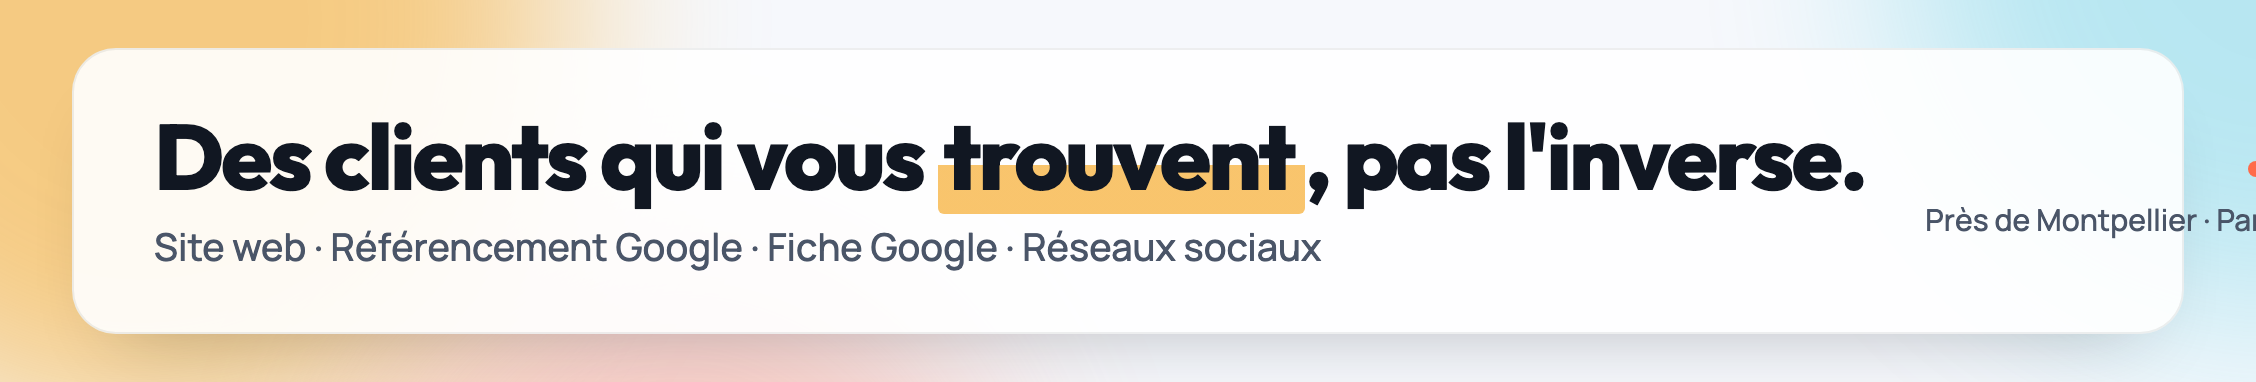
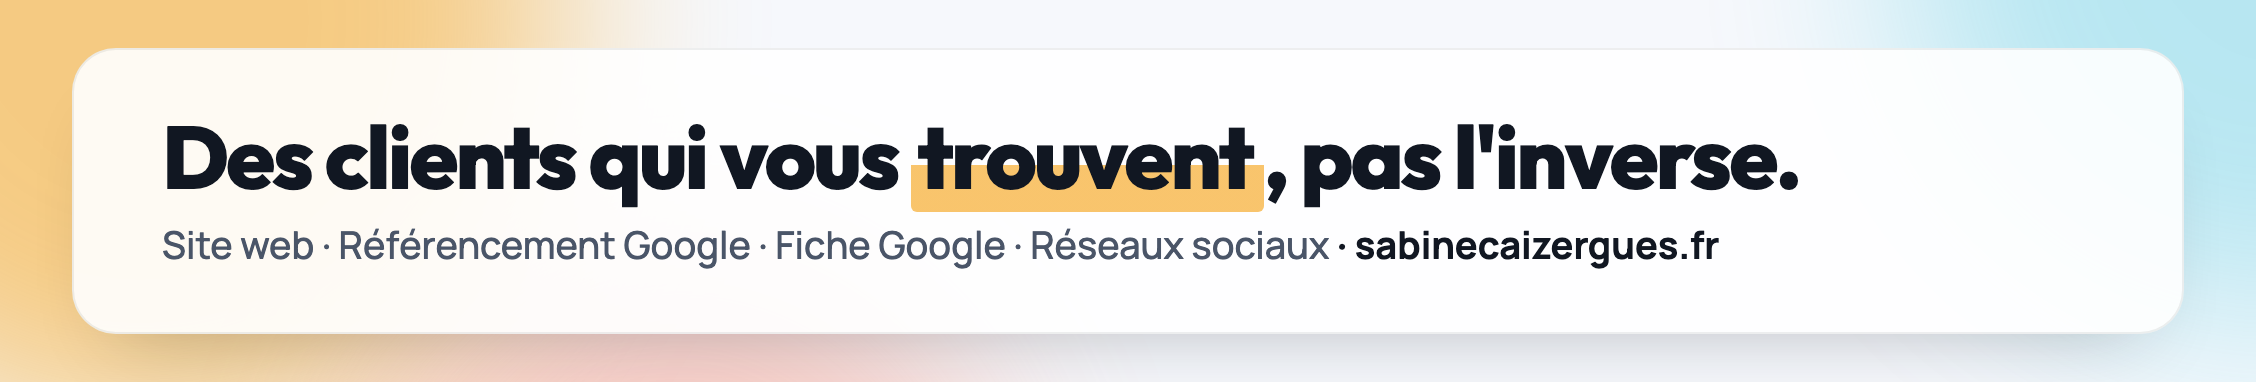
deploy from workspace

diff --git a/site-vitrine/index.html b/site-vitrine/index.html
@@ -28,7 +28,7 @@
 <link rel="icon" type="image/png" sizes="48x48" href="../favicon-48.png">
 <link rel="icon" type="image/png" sizes="192x192" href="../favicon-192.png">
 <link rel="apple-touch-icon" href="../apple-touch-icon.png">
-<script type="application/ld+json">{"@context":"https://schema.org","@graph":[{"@type":"Service","@id":"https://sabinecaizergues.fr/site-vitrine/#service","name":"Création de site vitrine professionnel","serviceType":"Création de site web","description":"Site vitrine d'une page, lisible sur téléphone, en ligne en 7 jours, avec un espace pour le modifier soi-même. Nom de domaine offert la première année, hébergement et sauvegardes inclus dans l'abonnement.","provider":{"@id":"https://sabinecaizergues.fr/#business"},"areaServed":{"@type":"Country","name":"France"},"url":"https://sabinecaizergues.fr/site-vitrine/","offers":{"@type":"Offer","price":"490","priceCurrency":"EUR","url":"https://sabinecaizergues.fr/site-vitrine/","availability":"https://schema.org/LimitedAvailability","priceValidUntil":"2026-12-31","description":"Tarif de lancement réservé aux 10 premiers clients, au lieu de 1 490 €. Puis abonnement de 59 à 299 € par mois selon le niveau d'accompagnement (149 € recommandé : fiche Google, réseaux sociaux et suivi du référencement). Option shooting photo 52 photos : 390 €."}},{"@type":"FAQPage","mainEntity":[{"@type":"Question","name":"Pourquoi si peu cher ? Il y a un piège ?","acceptedAnswer":{"@type":"Answer","text":"Aucun piège. Je relance mon activité et j'ai besoin de références récentes. Je fais ce tarif pour dix clients, puis je reviens à mes prix normaux. Vous n'achetez pas moins de travail, vous arrivez au bon moment."}},{"@type":"Question","name":"Je ne suis pas à Montpellier, c'est un problème ?","acceptedAnswer":{"@type":"Answer","text":"Aucun. Tout se fait très bien à distance : un appel, une visio avec partage d'écran, et vos textes et photos par email. Mes clients sont à Montpellier, à Avignon et ailleurs en France. Aucun déplacement n'est nécessaire."}},{"@type":"Question","name":"Je n'ai pas de photos, c'est bloquant ?","acceptedAnswer":{"@type":"Answer","text":"Non. On fait avec ce que vous avez, même des photos prises au téléphone, et je vous donne une liste de cinq photos simples à prendre. Et si vous voulez faire les choses bien : un shooting photo chez vous, 52 photos retouchées, soit une par semaine pour vos réseaux pendant un an, pour 390 €. Près de Montpellier je viens moi-même ; ailleurs, je fais venir un photographe partenaire."}},{"@type":"Question","name":"Et si je veux modifier quelque chose plus tard ?","acceptedAnswer":{"@type":"Answer","text":"Vous le faites vous-même en trois clics depuis votre espace : textes, photos, horaires, tarifs. Et si vous n'avez pas le temps, une modification par mois est comprise dans l'abonnement, je m'en occupe."}},{"@type":"Question","name":"L'abonnement, c'est un piège pour me retenir ?","acceptedAnswer":{"@type":"Answer","text":"Il couvre l'hébergement, le nom de domaine, la sécurité et les sauvegardes, que vous paieriez de toute façon ailleurs. L'engagement est de douze mois, c'est la contrepartie du prix de création cassé. Et le site vous appartient : si vous partez, vous partez avec."}},{"@type":"Question","name":"J'ai vu des offres à 10 € par mois, pourquoi 59 ?","acceptedAnswer":{"@type":"Answer","text":"Elles existent et elles sont honnêtes : c'est de l'hébergement, sans personne derrière. Si vous savez tout faire seul et que vous n'avez besoin de personne, prenez-les, je vous le dis franchement. Moi je vends autre chose : quelqu'un qui décroche, qui connaît votre métier, et qui fait la modification à votre place."}},{"@type":"Question","name":"Combien de temps ça me prend, à moi ?","acceptedAnswer":{"@type":"Answer","text":"Un appel de quinze minutes, puis l'envoi de vos photos et de vos textes. Une heure de votre temps en tout, réparties sur la semaine."}}]},{"@type":"BreadcrumbList","itemListElement":[{"@type":"ListItem","position":1,"name":"Accueil","item":"https://sabinecaizergues.fr/"},{"@type":"ListItem","position":2,"name":"Site vitrine en 7 jours","item":"https://sabinecaizergues.fr/site-vitrine/"}]},{"@type":"ProfessionalService","@id":"https://sabinecaizergues.fr/#business","name":"Sabine Caizergues","alternateName":"ULTRAFACILE","url":"https://sabinecaizergues.fr/","telephone":"+33646561787","email":"sabine@ultrafacile.fr","image":"https://sabinecaizergues.fr/assets/og-accueil.jpg","logo":"https://sabinecaizergues.fr/favicon-512.png","priceRange":"€€","description":"Création de sites web, référencement naturel (SEO), fiche Google Business, réseaux sociaux et publicité en ligne pour les indépendants, artisans, commerçants et petites entreprises. Près de Montpellier, partout en France à distance.","areaServed":[{"@type":"Country","name":"France"},{"@type":"City","name":"Montpellier"},{"@type":"AdministrativeArea","name":"Occitanie"}],"address":{"@type":"PostalAddress","addressRegion":"Occitanie","addressCountry":"FR"},"founder":{"@id":"https://sabinecaizergues.fr/#person"},"sameAs":["https://www.linkedin.com/in/sabinecaizergues/"],"knowsAbout":["Création de sites web","Référencement naturel (SEO)","Google Business Profile","Réseaux sociaux","Google Ads","Meta Ads","Automatisation"],"hasOfferCatalog":{"@type":"OfferCatalog","name":"Services","itemListElement":[{"@type":"Offer","url":"https://sabinecaizergues.fr/site-vitrine/","price":"490","priceCurrency":"EUR","itemOffered":{"@type":"Service","name":"Création de site vitrine","description":"Site vitrine professionnel d'une page, en ligne en 7 jours, modifiable par le client."}},{"@type":"Offer","itemOffered":{"@type":"Service","name":"Site complet ou boutique en ligne"}},{"@type":"Offer","itemOffered":{"@type":"Service","name":"Référencement naturel (SEO)"}},{"@type":"Offer","itemOffered":{"@type":"Service","name":"Gestion des réseaux sociaux"}},{"@type":"Offer","itemOffered":{"@type":"Service","name":"Fiche Google Business"}},{"@type":"Offer","itemOffered":{"@type":"Service","name":"Publicité Google Ads et Meta Ads"}},{"@type":"Offer","itemOffered":{"@type":"Service","name":"Automatisation et développement sur mesure"}}]}},{"@type":"Person","@id":"https://sabinecaizergues.fr/#person","name":"Sabine Caizergues","jobTitle":"Partenaire digitale : création de sites web, référencement naturel et réseaux sociaux","url":"https://sabinecaizergues.fr/","image":"https://sabinecaizergues.fr/assets/sabine.jpg","email":"sabine@ultrafacile.fr","telephone":"+33646561787","sameAs":["https://www.linkedin.com/in/sabinecaizergues/"],"worksFor":{"@id":"https://sabinecaizergues.fr/#business"}}]}</script>
+<script type="application/ld+json">{"@context":"https://schema.org","@graph":[{"@type":"Service","@id":"https://sabinecaizergues.fr/site-vitrine/#service","name":"Création de site vitrine professionnel","serviceType":"Création de site web","description":"Site vitrine d'une page, lisible sur téléphone, en ligne en 7 jours, avec un espace pour le modifier soi-même. Nom de domaine offert la première année, hébergement et sauvegardes inclus dans l'abonnement.","provider":{"@id":"https://sabinecaizergues.fr/#business"},"areaServed":{"@type":"Country","name":"France"},"url":"https://sabinecaizergues.fr/site-vitrine/","offers":{"@type":"Offer","price":"490","priceCurrency":"EUR","url":"https://sabinecaizergues.fr/site-vitrine/","availability":"https://schema.org/LimitedAvailability","priceValidUntil":"2026-12-31","description":"Tarif de lancement réservé aux 10 premiers clients, au lieu de 1 490 €. Puis abonnement de 59 à 299 € par mois selon le niveau d'accompagnement (149 € recommandé : fiche Google, réseaux sociaux et suivi du référencement). Option shooting photo 52 photos : 690 €."}},{"@type":"FAQPage","mainEntity":[{"@type":"Question","name":"Pourquoi si peu cher ? Il y a un piège ?","acceptedAnswer":{"@type":"Answer","text":"Aucun piège. Je relance mon activité et j'ai besoin de références récentes. Je fais ce tarif pour dix clients, puis je reviens à mes prix normaux. Vous n'achetez pas moins de travail, vous arrivez au bon moment."}},{"@type":"Question","name":"Je ne suis pas à Montpellier, c'est un problème ?","acceptedAnswer":{"@type":"Answer","text":"Aucun. Tout se fait très bien à distance : un appel, une visio avec partage d'écran, et vos textes et photos par email. Mes clients sont à Montpellier, à Avignon et ailleurs en France. Aucun déplacement n'est nécessaire."}},{"@type":"Question","name":"Je n'ai pas de photos, c'est bloquant ?","acceptedAnswer":{"@type":"Answer","text":"Non. On fait avec ce que vous avez, même des photos prises au téléphone, et je vous donne une liste de cinq photos simples à prendre. Et si vous voulez faire les choses bien : un shooting photo chez vous, 52 photos retouchées, soit une par semaine pour vos réseaux pendant un an, pour 690 €. Près de Montpellier je viens moi-même ; ailleurs, je fais venir un photographe partenaire."}},{"@type":"Question","name":"Et si je veux modifier quelque chose plus tard ?","acceptedAnswer":{"@type":"Answer","text":"Vous le faites vous-même en trois clics depuis votre espace : textes, photos, horaires, tarifs. Et si vous n'avez pas le temps, une modification par mois est comprise dans l'abonnement, je m'en occupe."}},{"@type":"Question","name":"L'abonnement, c'est un piège pour me retenir ?","acceptedAnswer":{"@type":"Answer","text":"Il couvre l'hébergement, le nom de domaine, la sécurité et les sauvegardes, que vous paieriez de toute façon ailleurs. L'engagement est de douze mois, c'est la contrepartie du prix de création cassé. Et le site vous appartient : si vous partez, vous partez avec."}},{"@type":"Question","name":"J'ai vu des offres à 10 € par mois, pourquoi 59 ?","acceptedAnswer":{"@type":"Answer","text":"Elles existent et elles sont honnêtes : c'est de l'hébergement, sans personne derrière. Si vous savez tout faire seul et que vous n'avez besoin de personne, prenez-les, je vous le dis franchement. Moi je vends autre chose : quelqu'un qui décroche, qui connaît votre métier, et qui fait la modification à votre place."}},{"@type":"Question","name":"Combien de temps ça me prend, à moi ?","acceptedAnswer":{"@type":"Answer","text":"Un appel de quinze minutes, puis l'envoi de vos photos et de vos textes. Une heure de votre temps en tout, réparties sur la semaine."}}]},{"@type":"BreadcrumbList","itemListElement":[{"@type":"ListItem","position":1,"name":"Accueil","item":"https://sabinecaizergues.fr/"},{"@type":"ListItem","position":2,"name":"Site vitrine en 7 jours","item":"https://sabinecaizergues.fr/site-vitrine/"}]},{"@type":"ProfessionalService","@id":"https://sabinecaizergues.fr/#business","name":"Sabine Caizergues","alternateName":"ULTRAFACILE","url":"https://sabinecaizergues.fr/","telephone":"+33646561787","email":"sabine@ultrafacile.fr","image":"https://sabinecaizergues.fr/assets/og-accueil.jpg","logo":"https://sabinecaizergues.fr/favicon-512.png","priceRange":"€€","description":"Création de sites web, référencement naturel (SEO), fiche Google Business, réseaux sociaux et publicité en ligne pour les indépendants, artisans, commerçants et petites entreprises. Près de Montpellier, partout en France à distance.","areaServed":[{"@type":"Country","name":"France"},{"@type":"City","name":"Montpellier"},{"@type":"AdministrativeArea","name":"Occitanie"}],"address":{"@type":"PostalAddress","addressRegion":"Occitanie","addressCountry":"FR"},"founder":{"@id":"https://sabinecaizergues.fr/#person"},"sameAs":["https://www.linkedin.com/in/sabinecaizergues/"],"knowsAbout":["Création de sites web","Référencement naturel (SEO)","Google Business Profile","Réseaux sociaux","Google Ads","Meta Ads","Automatisation"],"hasOfferCatalog":{"@type":"OfferCatalog","name":"Services","itemListElement":[{"@type":"Offer","url":"https://sabinecaizergues.fr/site-vitrine/","price":"490","priceCurrency":"EUR","itemOffered":{"@type":"Service","name":"Création de site vitrine","description":"Site vitrine professionnel d'une page, en ligne en 7 jours, modifiable par le client."}},{"@type":"Offer","itemOffered":{"@type":"Service","name":"Site complet ou boutique en ligne"}},{"@type":"Offer","itemOffered":{"@type":"Service","name":"Référencement naturel (SEO)"}},{"@type":"Offer","itemOffered":{"@type":"Service","name":"Gestion des réseaux sociaux"}},{"@type":"Offer","itemOffered":{"@type":"Service","name":"Fiche Google Business"}},{"@type":"Offer","itemOffered":{"@type":"Service","name":"Publicité Google Ads et Meta Ads"}},{"@type":"Offer","itemOffered":{"@type":"Service","name":"Automatisation et développement sur mesure"}}]}},{"@type":"Person","@id":"https://sabinecaizergues.fr/#person","name":"Sabine Caizergues","jobTitle":"Partenaire digitale : création de sites web, référencement naturel et réseaux sociaux","url":"https://sabinecaizergues.fr/","image":"https://sabinecaizergues.fr/assets/sabine.jpg","email":"sabine@ultrafacile.fr","telephone":"+33646561787","sameAs":["https://www.linkedin.com/in/sabinecaizergues/"],"worksFor":{"@id":"https://sabinecaizergues.fr/#business"}}]}</script>
 <link rel="preconnect" href="https://fonts.googleapis.com"><link rel="preconnect" href="https://fonts.gstatic.com" crossorigin>
 <link href="https://fonts.googleapis.com/css2?family=Outfit:wght@500;700;800&family=Manrope:wght@400;500;700&display=swap" rel="stylesheet">
 <style>
@@ -210,7 +210,7 @@ footer a{color:var(--gris)}
   <p class="sous rev">Le site, c'est le frais d'installation. Ce qui vous rend visible chaque mois, c'est l'abonnement. Aucun frais caché, aucune surprise.</p>
   <div class="pack verre rev pack--once"><div class="t">Une seule fois</div><div class="p">490 €</div>
     <div class="d">La création complète du site, au lieu de 1 490 €.</div>
-    <ul><li>Conception et rédaction</li><li>Mise en ligne sous 7 jours</li><li>Formation de 15 minutes à votre espace</li><li>Nom de domaine offert la 1re année</li></ul><div class="opt">Option : shooting photo chez vous, 52 photos retouchées · 390 €</div></div>
+    <ul><li>Conception et rédaction</li><li>Mise en ligne sous 7 jours</li><li>Formation de 15 minutes à votre espace</li><li>Nom de domaine offert la 1re année</li></ul><div class="opt">Option : shooting photo chez vous, 52 photos retouchées · 690 €</div></div>
   <div class="abo3 rev">
     <div class="pack verre"><div class="t">Essentiel</div><div class="p">59 €<small>/mois</small></div>
       <div class="d">Pour que le site vive et reste en ligne.</div>
@@ -220,7 +220,7 @@ footer a{color:var(--gris)}
       <ul><li>Tout Essentiel</li><li>Votre fiche Google gérée : 2 posts par mois, réponses aux avis, horaires à jour</li><li>4 publications par mois sur vos réseaux, préparées par moi, validées par vous en un clic</li><li>Bilan de référencement chaque trimestre, textes ajustés</li></ul></div>
     <div class="pack verre"><div class="t">Croissance</div><div class="p">299 €<small>/mois</small></div>
       <div class="d">Pour élargir, mois après mois.</div>
-      <ul><li>Tout Visibilité</li><li>8 publications par mois</li><li>Une nouvelle page par mois (un service, une ville) pour sortir sur plus de recherches</li><li>Bilan mensuel + 30 minutes d'appel</li></ul></div>
+      <ul><li>Tout Visibilité</li><li>8 publications par mois</li><li>Une nouvelle page par mois (un service, une ville) pour sortir sur plus de recherches</li><li>Bilan mensuel + 30 minutes d'appel</li><li>Le shooting photo (52 photos) inclus une fois par an</li></ul></div>
   </div>
   <p class="rassur rev">Engagement 12 mois, puis libre. Le site vous appartient : si vous partez, vous partez avec.</p>
 </div></section>
@@ -231,7 +231,7 @@ footer a{color:var(--gris)}
   <div class="faq rev">
     <details><summary>Pourquoi si peu cher ? Il y a un piège ?</summary><p>Aucun piège. Je relance mon activité et j'ai besoin de références récentes. Je fais ce tarif pour dix clients, puis je reviens à mes prix normaux. Vous n'achetez pas moins de travail, vous arrivez au bon moment.</p></details>
     <details><summary>Je ne suis pas à Montpellier, c'est un problème ?</summary><p>Aucun. Tout se fait très bien à distance : un appel, une visio avec partage d'écran, et vos textes et photos par email. Mes clients sont à Montpellier, à Avignon et ailleurs en France. Aucun déplacement n'est nécessaire.</p></details>
-    <details><summary>Je n'ai pas de photos, c'est bloquant ?</summary><p>Non. On fait avec ce que vous avez, même des photos prises au téléphone, et je vous donne une liste de cinq photos simples à prendre. Et si vous voulez faire les choses bien : un <b>shooting photo chez vous, 52 photos retouchées</b>, soit une par semaine pour vos réseaux pendant un an, pour 390 €. Près de Montpellier je viens moi-même ; ailleurs, je fais venir un photographe partenaire.</p></details>
+    <details><summary>Je n'ai pas de photos, c'est bloquant ?</summary><p>Non. On fait avec ce que vous avez, même des photos prises au téléphone, et je vous donne une liste de cinq photos simples à prendre. Et si vous voulez faire les choses bien : un <b>shooting photo chez vous, 52 photos retouchées</b>, soit une par semaine pour vos réseaux pendant un an, pour 690 €. Près de Montpellier je viens moi-même ; ailleurs, je fais venir un photographe partenaire.</p></details>
     <details><summary>Et si je veux modifier quelque chose plus tard ?</summary><p>Vous le faites vous-même en trois clics depuis votre espace : textes, photos, horaires, tarifs. Et si vous n'avez pas le temps, une modification par mois est comprise dans l'abonnement, je m'en occupe.</p></details>
     <details><summary>L'abonnement, c'est un piège pour me retenir ?</summary><p>Il couvre l'hébergement, le nom de domaine, la sécurité et les sauvegardes, que vous paieriez de toute façon ailleurs. L'engagement est de douze mois, c'est la contrepartie du prix de création cassé. Et le site vous appartient : si vous partez, vous partez avec.</p></details>
     <details><summary>J'ai vu des offres à 10 € par mois, pourquoi 59 ?</summary><p>Elles existent et elles sont honnêtes : c'est de l'hébergement, sans personne derrière. Si vous savez tout faire seul et que vous n'avez besoin de personne, prenez-les, je vous le dis franchement. Moi je vends autre chose : quelqu'un qui décroche, qui connaît votre métier, et qui fait la modification à votre place.</p></details>
